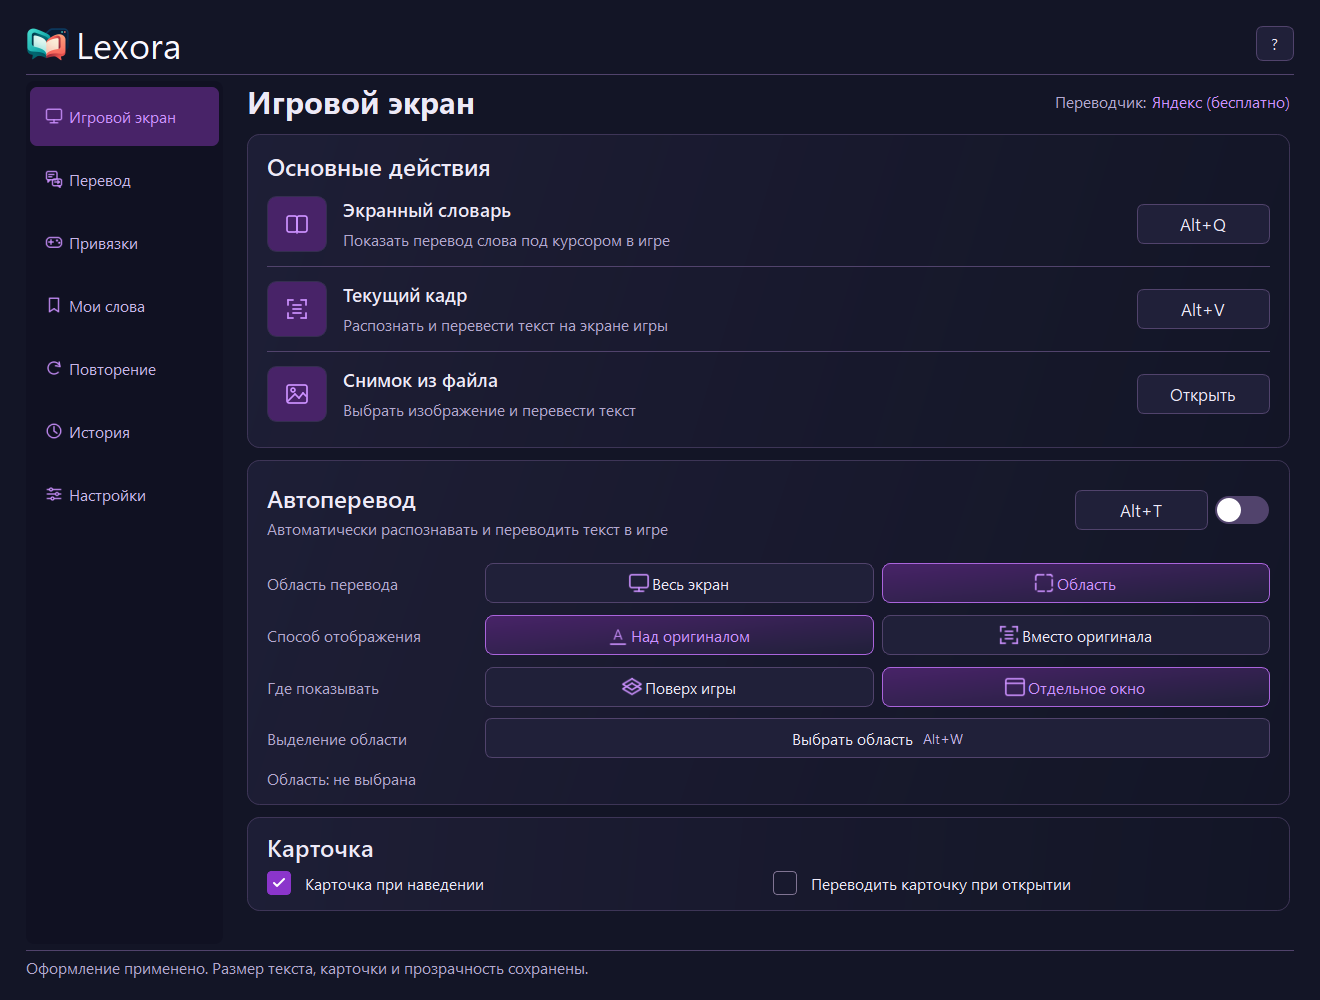
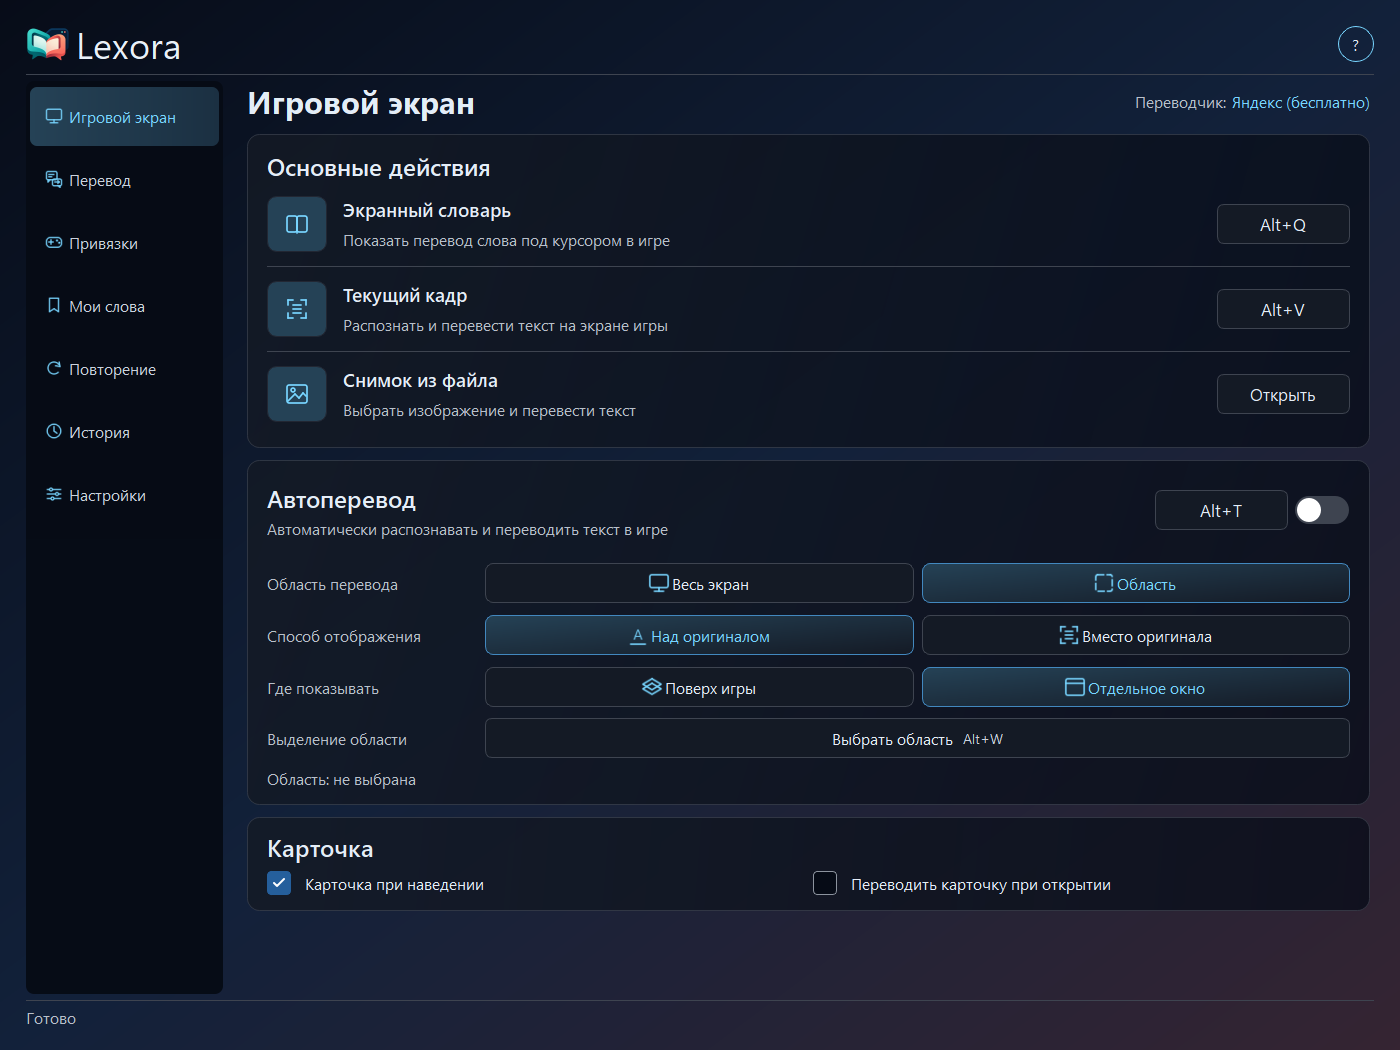
Refresh Aurora screenshot and simplify project overview

diff --git a/docs/USER_GUIDE.md b/docs/USER_GUIDE.md
@@ -5,14 +5,14 @@
 
 ## Запуск
 
-Закройте предыдущий WindowWords/Lexora. Распакуйте **всю** папку portable
+Закройте предыдущую версию Lexora. Распакуйте **всю** папку portable
 и запустите `Lexora.exe`. Папки `_internal`, `assets`, `data`, `licenses`
 должны оставаться рядом. Python для запуска не нужен. Права администратора не требуются.
 Нужен английский компонент Windows OCR.
 
 Настройки, слова и защищённые Windows ключи остаются в
-`%LOCALAPPDATA%\WindowWords`: имя папки сохранено для совместимости.
-Новый бренд не удаляет прежнюю коллекцию и подключения.
+`%LOCALAPPDATA%\WindowWords`. WindowWords — прежнее рабочее название Lexora;
+имя папки сохранено, чтобы обновления находили уже сохранённые слова и подключения.
 
 ## Быстрый старт
 
